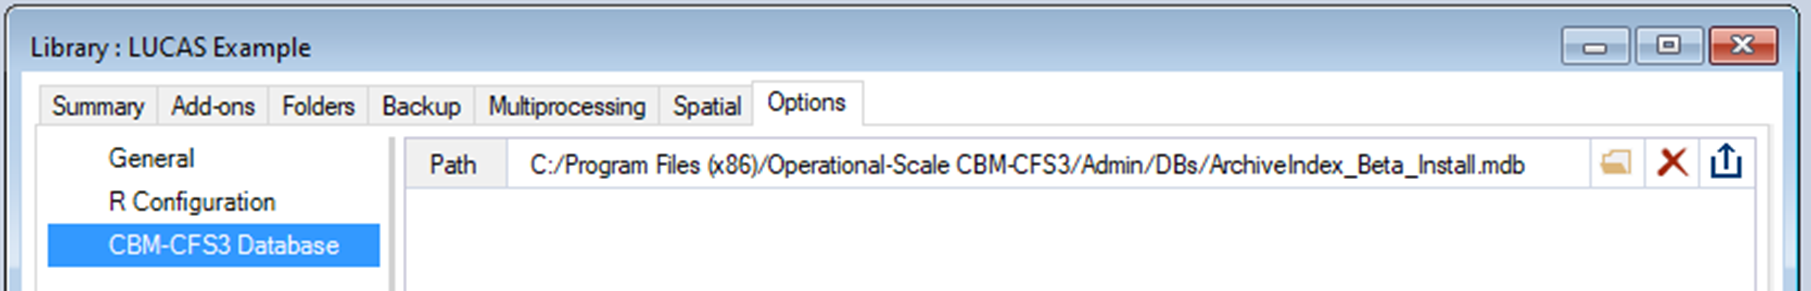
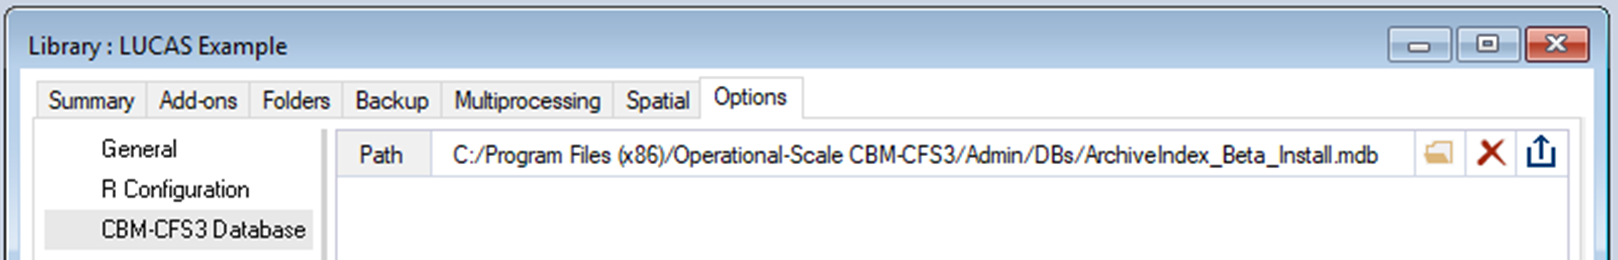
Renamed the new screencap 2 to replace the old version

Changed region(s): [[0.0, 0.0, 1.0, 1.0], [0.0618, 0.4923, 0.1236, 0.6154]]

diff --git a/docs/getting_started.md b/docs/getting_started.md
@@ -42,8 +42,6 @@ When you are ready to create the Library file, click **OK**. A new Library wil
 For the model to run, SyncroSim needs the locations of your R and the CBC-CFS3 Database. The R executable will be found automatically. To check, double-click on **LUCAS Example** and navigate to the **Options** tab. In the **R Configuration** datasheet, you should see the file path to your R executable. If not, click **Browse...** and navigate to the correct file location. The CBM-CFS3 file path is set to the default location that was recommended during the installation of the database. If the CBM-CFS3 Database was not installed to the default location, select the Folder icon, and navigate to the proper location on your local computer, then click **Open**.
 <br>
 <img align="middle" style="padding: 3px" width="800" src="assets/images/screencap-2.png">
-<br>
-<img align="middle" style="padding: 3px" width="800" src="assets/images/screencap-2-update.png">
 
 ## **Step 4: Review the model inputs**
 The contents of your newly created Library are now displayed in the Library Explorer. Model inputs in SyncroSim are organized into Scenarios, where each Scenario consists of a suite of values, one for each of the Model's required inputs.
